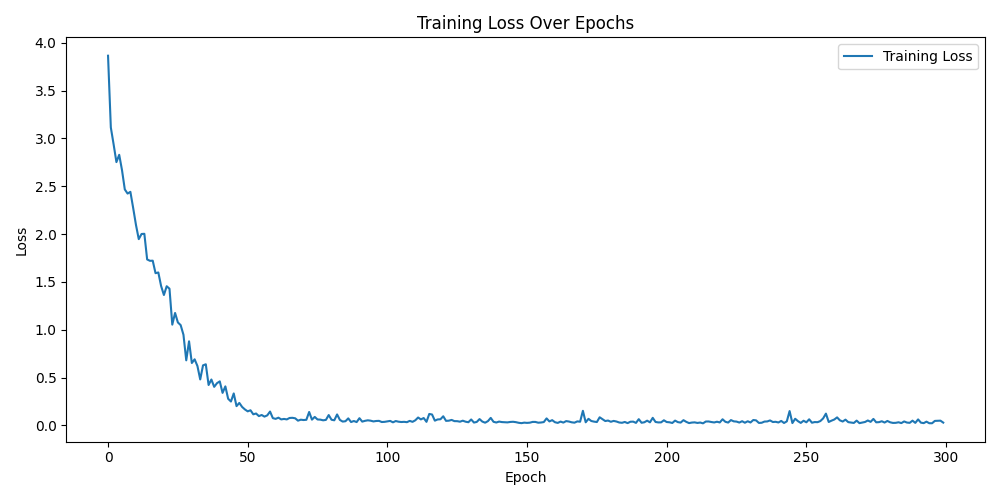
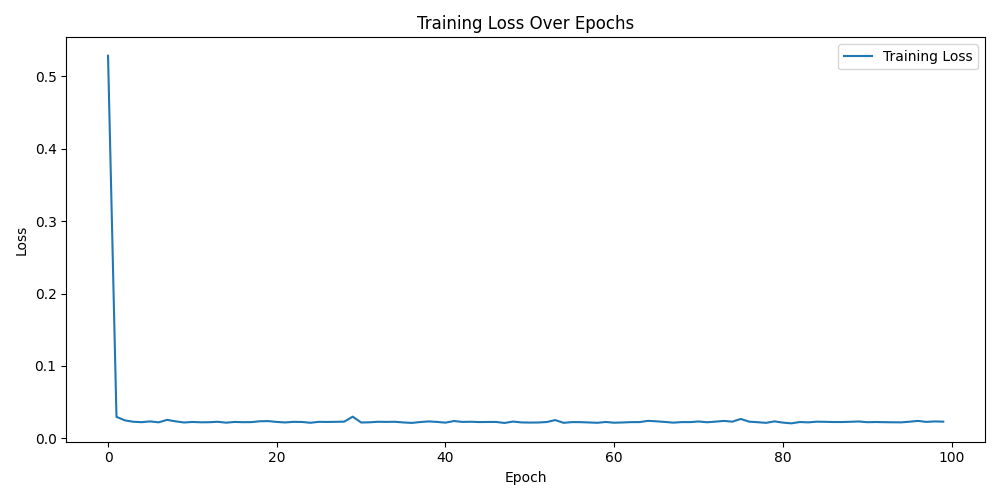
run in gpu

diff --git a/seq2seq/number_translator3_1.py b/seq2seq/number_translator3_1.py
@@ -5,7 +5,9 @@ import numpy as np
 import random
 import matplotlib.pyplot as plt
 
-import random
+# Set device
+device = torch.device('cuda' if torch.cuda.is_available() else 'cpu')
+print(f"Using device: {device}")
 
 class NumeralTranslationDataset:
     def __init__(self):
@@ -34,25 +36,21 @@ class NumeralTranslationDataset:
             '93': 'ninety three', '94': 'ninety four', '95': 'ninety five'
         }
 
-    def generate_training_data(self, num_examples=1000):
+    def generate_training_data(self, num_examples=10000):
         """Generate random training data for number translation."""
         input_sequences = []
         target_sequences = []
 
-        # Generate random numbers from 0 to 99 for a total of `num_examples` examples
         for _ in range(num_examples):
-            num = random.randint(0, 99)  # Randomly pick a number from 0 to 99
+            num = random.randint(0, 99)
             num_str = str(num)
             
-            # Translate to words
-            if num in self.num_to_words:
+            if num_str in self.num_to_words:
                 word = self.num_to_words[num_str]
             elif num < 20:
-                # Handle teens
                 units = str(num % 10)
                 word = self.num_to_words[units]
             else:
-                # Handle 21-99
                 tens = str((num // 10) * 10)
                 units = str(num % 10)
                 tens_word = self.num_to_words[tens]
@@ -82,19 +80,11 @@ class Attention(nn.Module):
         self.v = nn.Parameter(torch.rand(hidden_dim))
         
     def forward(self, hidden, encoder_outputs):
-        # hidden = [batch size, hidden dim]
-        # encoder_outputs = [batch size, seq len, hidden dim]
-        
         batch_size = encoder_outputs.shape[0]
         src_len = encoder_outputs.shape[1]
         
-        # Repeat hidden state src_len times
         hidden = hidden.unsqueeze(1).repeat(1, src_len, 1)
-        
-        # Concatenate hidden state with encoder outputs
         energy = torch.tanh(self.attn(torch.cat((hidden, encoder_outputs), dim=-1)))
-        
-        # Compute attention scores
         attention = torch.sum(self.v * energy, dim=-1)
         
         return torch.softmax(attention, dim=1)
@@ -108,28 +98,12 @@ class Decoder(nn.Module):
         self.fc_out = nn.Linear(hidden_dim, output_size)
         
     def forward(self, input, hidden, encoder_outputs):
-        # input = [batch size, 1]
-        # hidden = [batch size, hidden dim]
-        # encoder_outputs = [batch size, src len, hidden dim]
-        
-        # Embedding input
         embedded = self.embedding(input)
-        
-        # Compute attention weights
         a = self.attention(hidden[-1], encoder_outputs)
-        
-        # Apply attention to encoder outputs
         attended = torch.bmm(a.unsqueeze(1), encoder_outputs).squeeze(1)
-        
-        # Concatenate embedded input with attended context
         rnn_input = torch.cat((embedded.squeeze(1), attended), dim=1).unsqueeze(1)
-        
-        # GRU step
         output, hidden = self.gru(rnn_input, hidden)
-        
-        # Prediction
         prediction = self.fc_out(output.squeeze(1))
-        
         return prediction, hidden, a
 
 class Seq2SeqTranslator(nn.Module):
@@ -143,95 +117,73 @@ class Seq2SeqTranslator(nn.Module):
         target_len = target_seq.size(1)
         target_vocab_size = self.decoder.fc_out.out_features
         
-        # Tensor to store decoder outputs
-        outputs = torch.zeros(batch_size, target_len, target_vocab_size)
+        outputs = torch.zeros(batch_size, target_len, target_vocab_size).to(device)
         
-        # Encoder
         encoder_outputs, hidden = self.encoder(input_seq)
+        decoder_input = torch.zeros(batch_size, 1, dtype=torch.long).to(device)
         
-        # First decoder input
-        decoder_input = torch.zeros(batch_size, 1, dtype=torch.long)
-        
-        # Decode
         for t in range(target_len):
             decoder_output, hidden, _ = self.decoder(decoder_input, hidden, encoder_outputs)
             outputs[:, t:t+1, :] = decoder_output.unsqueeze(1)
             
-            # Teacher forcing
             teacher_force = random.random() < teacher_forcing_ratio
             top1 = decoder_output.argmax(1)
             
-            if teacher_force:
-                decoder_input = target_seq[:, t:t+1]
-            else:
-                decoder_input = top1.unsqueeze(1)
+            decoder_input = target_seq[:, t:t+1] if teacher_force else top1.unsqueeze(1)
         
         return outputs
 
 class NumeralTranslator:
     def __init__(self, input_chars, output_chars):
-        # Create dataset
         self.dataset = NumeralTranslationDataset()
         
-        # Create character to index mappings
         self.input_char_to_idx = {char: i for i, char in enumerate(input_chars)}
         self.input_idx_to_char = {i: char for char, i in self.input_char_to_idx.items()}
         
         self.output_char_to_idx = {char: i for i, char in enumerate(output_chars)}
         self.output_idx_to_char = {i: char for char, i in self.output_char_to_idx.items()}
         
-        # Hyperparameters
         self.embedding_dim = 128
         self.hidden_dim = 256
         
-        # Initialize model
         self.model = Seq2SeqTranslator(
             input_size=len(input_chars),
             output_size=len(output_chars),
             embedding_dim=self.embedding_dim,
             hidden_dim=self.hidden_dim
-        )
+        ).to(device)
         
         self.criterion = nn.CrossEntropyLoss()
         self.optimizer = optim.Adam(self.model.parameters(), lr=0.001)
     
     def prepare_sequence(self, seq, char_to_idx):
-        """Convert sequence of characters to tensor of indices."""
-        return torch.tensor([char_to_idx.get(char, 0) for char in seq], dtype=torch.long)
+        return torch.tensor([char_to_idx.get(char, 0) for char in seq], 
+                          dtype=torch.long).to(device)
     
     def pad_sequences(self, sequences, pad_token):
-        """Pad sequences to equal length."""
-        # Convert sequences to lists if they are tensors
         sequences = [seq.tolist() if torch.is_tensor(seq) else seq for seq in sequences]
-        
         max_len = max(len(seq) for seq in sequences)
         padded = []
         for seq in sequences:
             padded.append(seq + [pad_token] * (max_len - len(seq)))
-        return torch.tensor(padded, dtype=torch.long)
+        return torch.tensor(padded, dtype=torch.long).to(device)
     
-    def train(self, epochs=300, batch_size=32):
-        """Train the translation model."""
-        # Generate training data
+    def train(self, epochs=100, batch_size=32):
         input_sequences, target_sequences = self.dataset.generate_training_data()
         
-        # Prepare input and target sequences
         input_chars = [list(str(seq)) for seq in input_sequences]
         target_chars = [list(seq) for seq in target_sequences]
         
-        # Get character sets for input and output
         input_chars_set = sorted(set(''.join([''.join(seq) for seq in input_chars])))
         output_chars_set = sorted(set(''.join([''.join(seq) for seq in target_chars])))
         
         print("Input characters:", input_chars_set)
         print("Output characters:", output_chars_set)
         
-        # Training loop
         epoch_losses = []
         for epoch in range(epochs):
             total_loss = 0
             
-            # Shuffle data
             combined = list(zip(input_chars, target_chars))
             random.shuffle(combined)
             input_chars, target_chars = zip(*combined)
@@ -240,80 +192,59 @@ class NumeralTranslator:
                 batch_input = input_chars[i:i+batch_size]
                 batch_target = target_chars[i:i+batch_size]
                 
-                # Prepare input sequences
                 input_seqs = self.pad_sequences(
                     [self.prepare_sequence(seq, self.input_char_to_idx) for seq in batch_input], 
                     pad_token=0
                 )
                 
-                # Prepare target sequences
                 target_seqs = self.pad_sequences(
                     [self.prepare_sequence(seq, self.output_char_to_idx) for seq in batch_target], 
                     pad_token=0
                 )
                 
-                # Zero gradients
                 self.optimizer.zero_grad()
-                
-                # Forward pass
                 outputs = self.model(input_seqs, target_seqs)
                 
-                # Compute loss
                 loss = self.criterion(
                     outputs.view(-1, outputs.size(-1)), 
                     target_seqs.view(-1)
                 )
                 
-                # Backward pass
                 loss.backward()
                 self.optimizer.step()
                 
                 total_loss += loss.item()
             
-            # Record average epoch loss
             avg_loss = total_loss / (len(input_chars) // batch_size)
             epoch_losses.append(avg_loss)
             
-            # Print progress
             if epoch % 10 == 0:
                 print(f'Epoch {epoch}, Loss: {avg_loss:.4f}')
         
-        # Visualize training loss
         self.plot_training_loss(epoch_losses)
-        
         return epoch_losses
     
     def translate(self, input_number):
-        """Translate a single number to words."""
-        # Prepare input sequence
         input_seq = self.prepare_sequence(list(str(input_number)), self.input_char_to_idx)
-        input_seq = input_seq.unsqueeze(0)  # Add batch dimension
+        input_seq = input_seq.unsqueeze(0)
         
-        # Create dummy target sequence of zeros
-        max_output_length = 10  # Maximum expected word length
-        dummy_target = torch.zeros(1, max_output_length, dtype=torch.long)
+        max_output_length = 10
+        dummy_target = torch.zeros(1, max_output_length, dtype=torch.long).to(device)
         
-        # Disable gradient computation
         with torch.no_grad():
-            # Get model outputs
             outputs = self.model(input_seq, dummy_target)
-            
-            # Get the most likely output characters
             predicted_indices = outputs.argmax(dim=-1)
             
-            # Convert indices back to characters
             predicted_chars = []
             for i in range(predicted_indices.size(1)):
                 char_idx = predicted_indices[0, i].item()
                 char = self.output_idx_to_char[char_idx]
-                if char != '<pxad>':  # Skip padding
+                if char != '<pad>':
                     predicted_chars.append(char)
             
-            # Join characters to form a word
             return ''.join(predicted_chars).strip()
     
     def save_model(self, filepath='numeral_translator.pth'):
-        """Save model state."""
         torch.save({
             'model_state_dict': self.model.state_dict(),
             'input_char_to_idx': self.input_char_to_idx,
@@ -322,15 +253,13 @@ class NumeralTranslator:
         print(f"Model saved to {filepath}")
     
     def load_model(self, filepath='numeral_translator.pth'):
-        """Load model state."""
-        checkpoint = torch.load(filepath)
+        checkpoint = torch.load(filepath, map_location=device)
         self.model.load_state_dict(checkpoint['model_state_dict'])
         self.input_char_to_idx = checkpoint['input_char_to_idx']
         self.output_char_to_idx = checkpoint['output_char_to_idx']
         print(f"Model loaded from {filepath}")
     
     def plot_training_loss(self, losses):
-        """Visualize training loss."""
         plt.figure(figsize=(10, 5))
         plt.plot(losses, label='Training Loss')
         plt.title('Training Loss Over Epochs')
@@ -342,28 +271,22 @@ class NumeralTranslator:
         plt.close()
 
 def main():
-    # Define input and output character sets
     input_chars = list('0123456789')
     output_chars = list(' abcdefghijklmnopqrstuvwxyz') + ['<pad>']
 
-    # Initialize translator
     translator = NumeralTranslator(input_chars, output_chars)
 
-    # Train the model
     print("Training model...")
-    losses = translator.train(epochs=300, batch_size=32)
+    losses = translator.train(epochs=100, batch_size=32)
 
-    # Save the trained model
     translator.save_model()
 
-    # Test the model with some examples
     test_numbers = ['0', '5', '13', '25', '42', '67', '89', '99']
     print("\nTesting translations:")
     for number in test_numbers:
         translation = translator.translate(number)
         print(f"{number} -> {translation}")
 
-    # Interactive mode
     print("\nEnter a number (0-99) to translate or 'q' to quit:")
     while True:
         user_input = input("> ")
